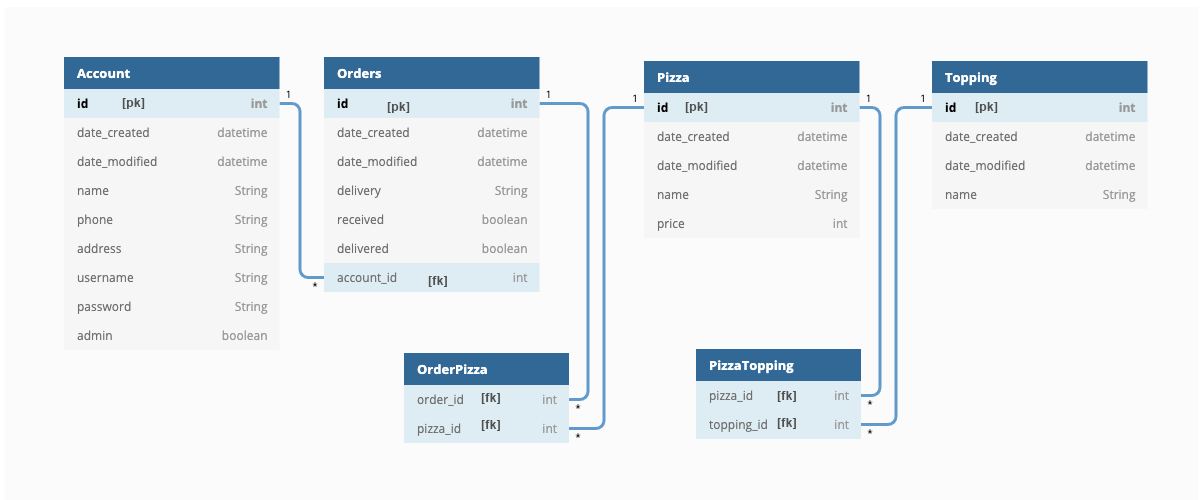
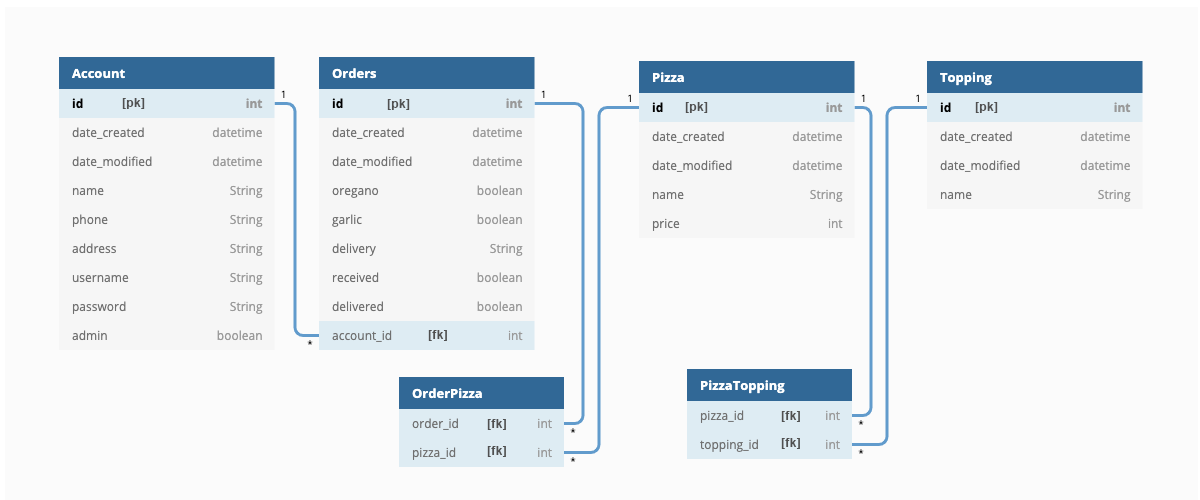
orders, extras

diff --git a/application/templates/orders/order.html b/application/templates/orders/order.html
@@ -35,8 +35,37 @@
         </p>
       </div>
       <form class="py-3 needs-validation" novalidate method="POST" action="{{ url_for('orders_set_item', order_id=order.id) }}">
+        <p>Lisävalinnat</p>
+        <div class="custom-control custom-switch">
+          {{ form.oregano(checked=order.oregano) }}
+          {{ form.oregano.label(class="custom-control-label") }}
+          <div class="invalid-feedback">
+            Tarkista oregano tila
+          </div>
+          {% if form.oregano.errors %}
+            <div class="alert alert-danger mt-2 py-0" role="alert">
+              {% for error in form.oregano.errors %}
+                <small>{{ error }}</small>
+              {% endfor %}
+            </div>  
+          {% endif %}
+        </div>
+        <div class="custom-control custom-switch">
+          {{ form.garlic(checked=order.garlic) }}
+          {{ form.garlic.label(class="custom-control-label") }}
+          <div class="invalid-feedback">
+            Tarkista valkosipuli tila
+          </div>
+          {% if form.garlic.errors %}
+            <div class="alert alert-danger mt-2 py-0" role="alert">
+              {% for error in form.garlic.errors %}
+                <small>{{ error }}</small>
+              {% endfor %}
+            </div>  
+          {% endif %}
+        </div>
         <fieldset class="form-group">
-          <legend class="col-form-label">{{ form.delivery.label }}  <small class="text-muted align-top">*</small></legend>
+          <legend class="col-form-label pt-4">{{ form.delivery.label }}  <small class="text-muted align-top">*</small></legend>
           {% for subfield in form.delivery %}
             <div class="form-check">
                   {{ subfield(class="form-check-input") }}
@@ -54,9 +83,10 @@
             </div>  
           {% endif %}
         </fieldset>
+        <p class="mt-4">Toimituksen tila</p>
         <div class="custom-control custom-switch">
           {{ form.received(checked=order.received) }}
-          {{ form.received.label(class="custom-control-label") }} <small class="text-muted align-top">*</small>
+          {{ form.received.label(class="custom-control-label") }}
           <div class="invalid-feedback">
             Tarkista vastaanotettu tila
           </div>
@@ -70,7 +100,7 @@
         </div>
         <div class="custom-control custom-switch">
           {{ form.delivered(checked=order.delivered) }}
-          {{ form.delivered.label(class="custom-control-label") }} <small class="text-muted align-top">*</small>
+          {{ form.delivered.label(class="custom-control-label") }}
           <div class="invalid-feedback">
             Tarkista toimitettu tila
           </div>
@@ -82,7 +112,7 @@
             </div>  
           {% endif %}
         </div>
-        <button type="submit" class="btn btn-info btn-block mt-4">Tallenna tilaus</button>
+        <button type="submit" class="btn btn-info btn-block mt-5">Tallenna tilaus</button>
       </form>
       <hr>
       <h6>Poista tämä tilaus</h6>

diff --git a/application/templates/orders/list.html b/application/templates/orders/list.html
@@ -13,8 +13,10 @@
         <thead>
           <tr>
             <th>Tilaus</th>
-            <th class="text-center">Vastaanotettu</th>
+            <th class="text-center">Oregano</th>
+            <th class="text-center">Valkosipuli</th>
             <th>Toimitustapa</th>
+            <th class="text-center">Vastaanotettu</th>
             <th class="text-center">Toimitettu</th>
             <th>Tilaaja</th>
             <th></th>
@@ -30,13 +32,27 @@
               </a>
             </td>
             <td class="text-center">
-              {% if order.received %}
+              {% if order.oregano %}
+                <i class="far fa-check-circle text-success"></i>
+              {% else %}
+                <i class="far fa-times-circle text-danger"></i>
+              {% endif %}
+            </td>
+            <td class="text-center">
+              {% if order.garlic %}
                 <i class="far fa-check-circle text-success"></i>
               {% else %}
                 <i class="far fa-times-circle text-danger"></i>
               {% endif %}
             </td>
             <td>{{ order.delivery }}</td>
+            <td class="text-center">
+              {% if order.received %}
+                <i class="far fa-check-circle text-success"></i>
+              {% else %}
+                <i class="far fa-times-circle text-danger"></i>
+              {% endif %}
+            </td>
             <td class="text-center">
               {% if order.delivered %}
                 <i class="far fa-check-circle text-success"></i>

diff --git a/application/templates/orders/new.html b/application/templates/orders/new.html
@@ -45,6 +45,35 @@
             </div>  
           {% endif %}
         </div>
+        <p>Lisävalinnat</p>
+        <div class="custom-control custom-switch mb-3">
+          {{ form.oregano }}
+          {{ form.oregano.label(class="custom-control-label") }}
+          <div class="invalid-feedback">
+            Tarkista oregano tila
+          </div>
+          {% if form.oregano.errors %}
+            <div class="alert alert-danger mt-2 py-0" role="alert">
+              {% for error in form.oregano.errors %}
+                <small>{{ error }}</small>
+              {% endfor %}
+            </div>  
+          {% endif %}
+        </div>
+        <div class="custom-control custom-switch mb-3">
+          {{ form.garlic }}
+          {{ form.garlic.label(class="custom-control-label") }}
+          <div class="invalid-feedback">
+            Tarkista valkosipuli tila
+          </div>
+          {% if form.garlic.errors %}
+            <div class="alert alert-danger mt-2 py-0" role="alert">
+              {% for error in form.garlic.errors %}
+                <small>{{ error }}</small>
+              {% endfor %}
+            </div>  
+          {% endif %}
+        </div>
         <div class="form-group">
           <legend class="col-form-label">{{ form.delivery.label }}  <small class="text-muted align-top">*</small></legend>
           {% for subfield in form.delivery %}

diff --git a/application/templates/users/new.html b/application/templates/users/new.html
@@ -66,7 +66,7 @@
         </div>
         <div class="custom-control custom-switch mb-3">
           {{ form.admin }}
-          {{ form.admin.label(class="custom-control-label") }} <small class="text-muted align-top">*</small>
+          {{ form.admin.label(class="custom-control-label") }}
           <div class="invalid-feedback">
             Tarkista ylläpitäjä tila
           </div>

diff --git a/application/orders/forms.py b/application/orders/forms.py
@@ -6,6 +6,8 @@ from application.pizzas.models import Pizza
 
 class OrdersForm(FlaskForm):
     delivery = RadioField('Toimitustapa', [required()], choices=[('kuljetus','Kuljetus'),('nouto','Nouto'),('paikan päällä','Paikan päällä')])
+    oregano = BooleanField('Oregano', [optional()], render_kw={'class':'custom-control-input'})
+    garlic = BooleanField('Valkosipuli', [optional()], render_kw={'class':'custom-control-input'})
     pizza_id = IntegerField('Pizza id', [required(), NumberRange(min=1, max=999)], render_kw={'class':'form-control form-control-sm', 'pattern':'[0-9]{1,3}', 'readonly':'true', 'type':'hidden'})
 
     class Meta:
@@ -13,6 +15,8 @@ class OrdersForm(FlaskForm):
 
 class OrdersEditForm(FlaskForm):
     delivery = RadioField('Toimitustapa', [required()], choices=[('kuljetus','Kuljetus'),('nouto','Nouto'),('paikan päällä','Paikan päällä')])
+    oregano = BooleanField('Oregano', [optional()], render_kw={'class':'custom-control-input'})
+    garlic = BooleanField('Valkosipuli', [optional()], render_kw={'class':'custom-control-input'})
     received = BooleanField('Vastaanotettu', [optional()], render_kw={'class':'custom-control-input'})
     delivered = BooleanField('Toimitettu', [optional()], render_kw={'class':'custom-control-input'})
 

diff --git a/application/orders/views.py b/application/orders/views.py
@@ -21,6 +21,8 @@ def orders_get_item(order_id):
     f = OrdersEditForm()
 
     f.delivery.default = o.delivery
+    f.oregano.default = o.oregano
+    f.garlic.default = o.garlic
     f.process()
     
     return render_template("orders/order.html", order = o, form = f)
@@ -33,6 +35,8 @@ def orders_set_item(order_id):
     o = Order.query.get(order_id)
 
     o.delivery = form.delivery.data
+    o.oregano = form.oregano.data
+    o.garlic = form.garlic.data
     o.received = form.received.data
     o.delivered = form.delivered.data
 
@@ -66,6 +70,8 @@ def orders_form(pizza_id):
 def orders_create():
     form = OrdersForm(request.form)
     o = Order(form.delivery.data)
+    o.oregano = form.oregano.data
+    o.garlic = form.garlic.data
     o.account_id = current_user.id
     p = Pizza.query.get(form.pizza_id.data)
 

diff --git a/application/orders/models.py b/application/orders/models.py
@@ -10,6 +10,8 @@ class Order(Base):
     __tablename__ = "orders"
 
     delivery = db.Column(db.String(144), nullable=False)
+    oregano = db.Column(db.Boolean, unique=False, default=False)
+    garlic = db.Column(db.Boolean, unique=False, default=False)
     received = db.Column(db.Boolean, unique=False, default=False)
     delivered = db.Column(db.Boolean, unique=False, default=False)
     account_id = db.Column(db.Integer, db.ForeignKey('account.id'), nullable=False)

diff --git a/documentation/rajoitteet.md b/documentation/rajoitteet.md
@@ -4,12 +4,12 @@
 
 ### Pizzat
 - Pizzoihin voi valita vain neljä täytettä ja samaa täytettä ei voi valita kahdesti
-  - Täytteiden mahdollinen määrä voisi olla suurempi ja saman voisi valita useamman kerran
-  - Täytteitä ei myöskään voi vaihtaa tilauksen yhteydessä tällä hetkellä
+  - Täytteiden enimmäismäärää voisi kasvattaa
+  - Saman täytteen voisi valita useamman kerran
+  - Pizzoihin voisi valita lisätäytteitä tilauksen yhteydessä
+- Pizzan kokoa ei voi valita
 
-- Pizzapohjia voisi olla useampi vaihtoehto
-
-- Pizzoihin pitäisi voida valita oregano ja valkosipuli
+- Pizzapohjia voisi olla useampi vaihtoehto esim. gluteeniton, kuitu
 
 ### Käyttäjät
 

diff --git a/documentation/tietokantarakenne.md b/documentation/tietokantarakenne.md
@@ -27,10 +27,14 @@ CREATE TABLE orders (
         date_created DATETIME, 
         date_modified DATETIME, 
         delivery VARCHAR(144) NOT NULL, 
+        oregano BOOLEAN, 
+        garlic BOOLEAN, 
         received BOOLEAN, 
         delivered BOOLEAN, 
         account_id INTEGER NOT NULL, 
         PRIMARY KEY (id), 
+        CHECK (oregano IN (0, 1)), 
+        CHECK (garlic IN (0, 1)), 
         CHECK (received IN (0, 1)), 
         CHECK (delivered IN (0, 1)), 
         FOREIGN KEY(account_id) REFERENCES account (id)
